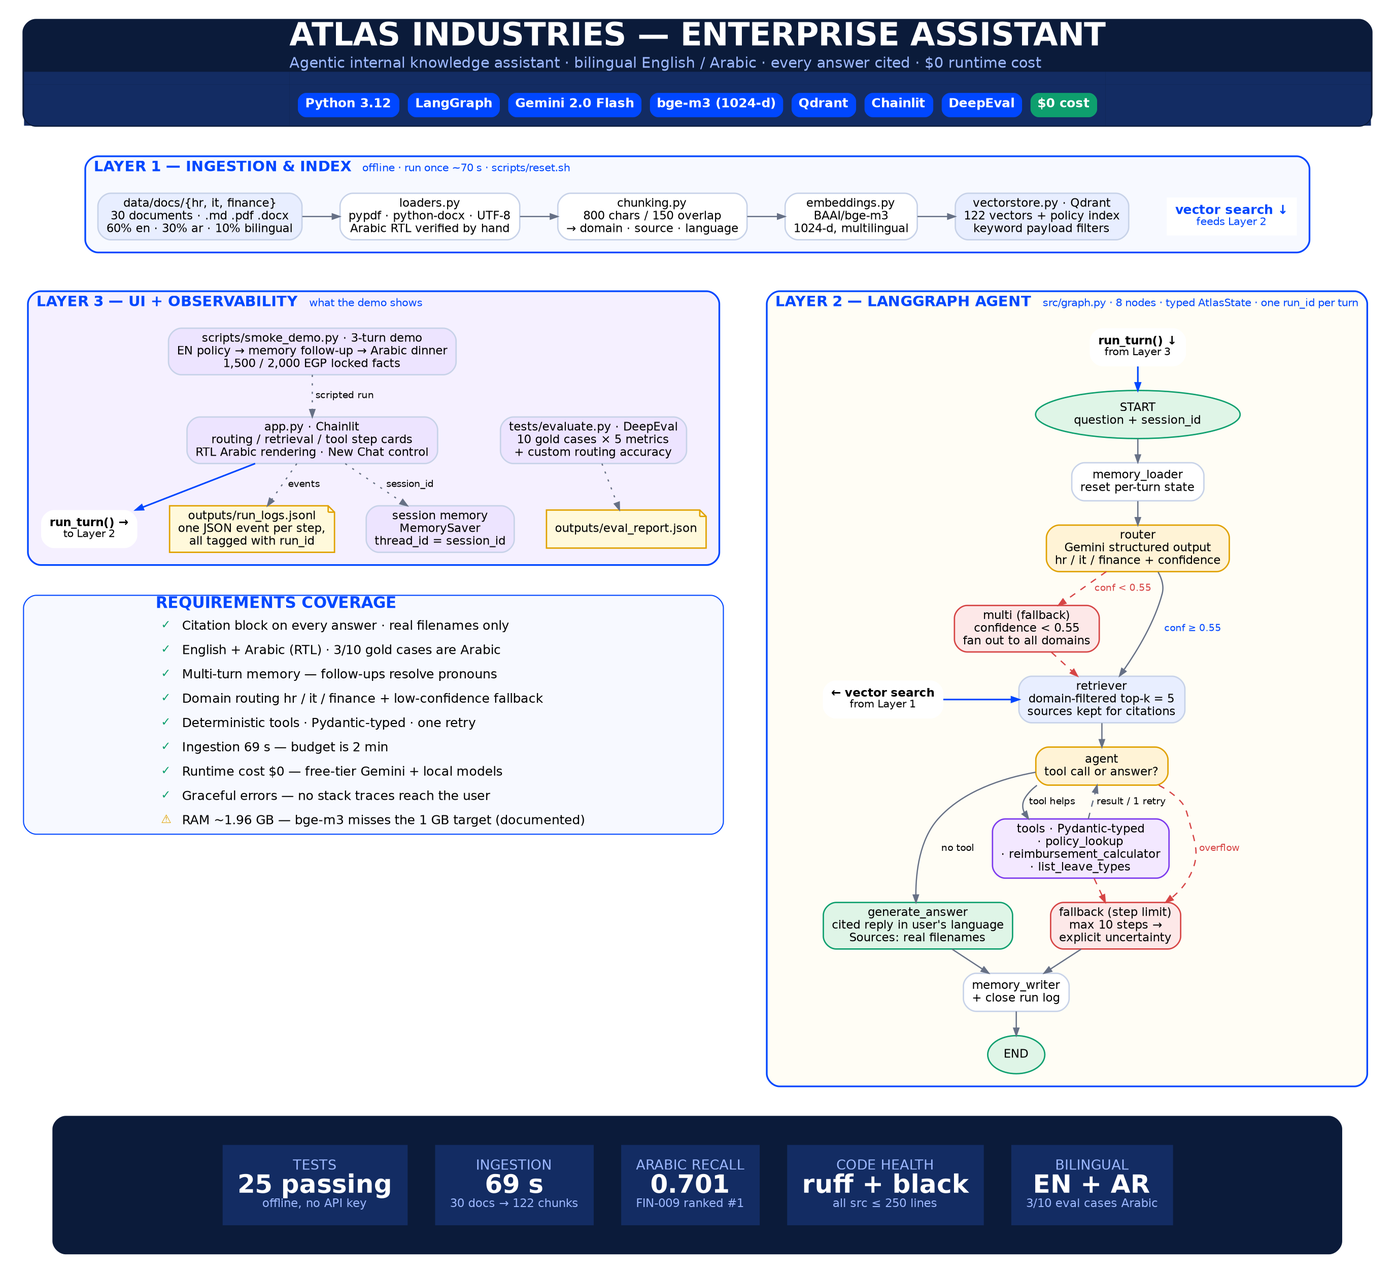
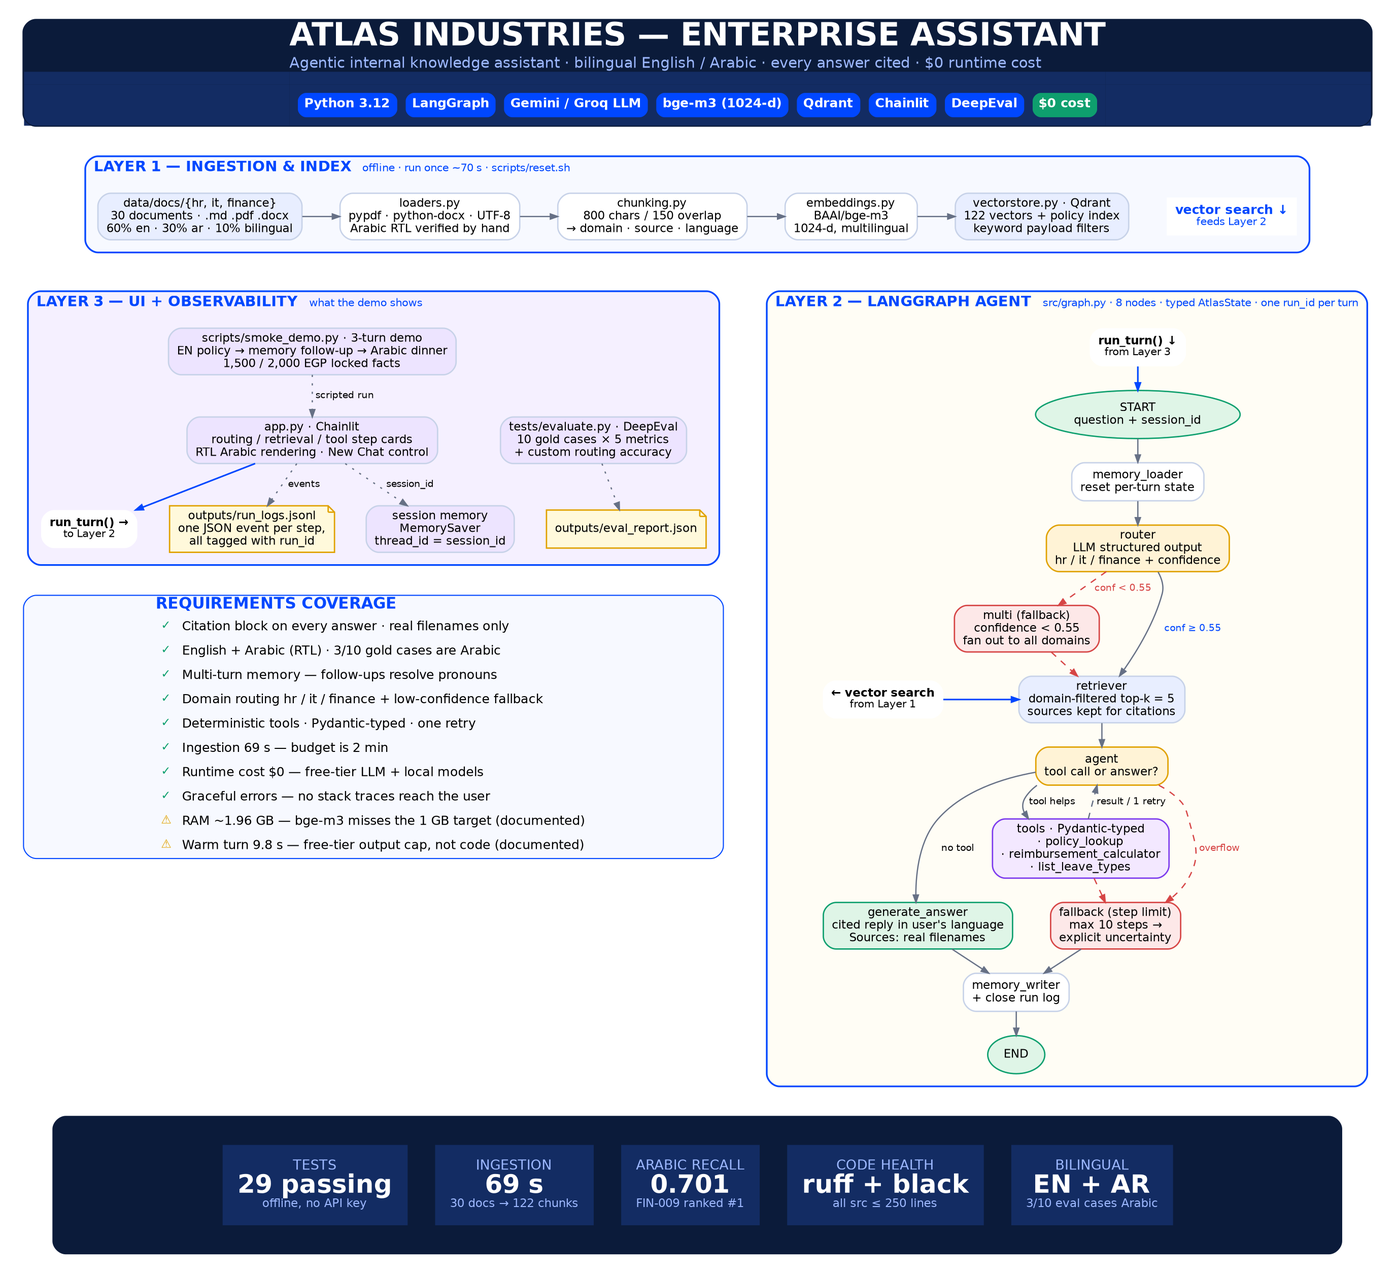
docs: dual-provider stack, demo scaffolding, honest NFR-B1 note
- README: Demo section (gif + agent-replay screenshot row), dual-provider
  stack rationale, one-process-at-a-time warning, NFR-B1 measured honestly
  (warm turn 9.8s; the ceiling is the free tier's output budget, not code)
- poster: 'Gemini' -> provider-neutral wording, 29 tests, second warning row
- scripts/build_demo_gif.py: builds docs/demo.gif from docs/screenshots/ so
  the 60-90s walkthrough is reproducible rather than hand-recorded

diff --git a/scripts/build_demo_gif.py b/scripts/build_demo_gif.py
@@ -1,0 +1,155 @@
+"""Assemble docs/demo.gif from ordered screenshots (FR: 60-90s walkthrough).
+
+Why this exists: the brief requires a `docs/demo.gif` showing a walkthrough, and
+a hand-recorded screen capture cannot be reproduced by a teammate or re-run
+after a UI change. This builds the GIF deterministically from the PNGs in
+`docs/screenshots/`, so the demo is regenerated with the same command that
+regenerates the architecture poster:
+
+    python scripts/build_demo_gif.py
+
+Every frame is a real screenshot of the running Chainlit app; the only thing
+this script adds is the caption bar and the timing. Per-frame durations are
+supplied by `captions.json` so the total lands inside the 60-90s window
+without editing this file.
+
+Usage:
+    python scripts/build_demo_gif.py [--seconds-per-frame N] [--out PATH]
+"""
+
+from __future__ import annotations
+
+import argparse
+import json
+import sys
+from pathlib import Path
+
+from PIL import Image, ImageDraw, ImageFont
+
+ROOT = Path(__file__).resolve().parent.parent
+SHOTS_DIR = ROOT / "docs" / "screenshots"
+CAPTIONS_PATH = SHOTS_DIR / "captions.json"
+DEFAULT_OUT = ROOT / "docs" / "demo.gif"
+
+# Brand matches scripts/build_poster.py so the GIF and poster read as one set.
+BRAND = (0, 71, 255)
+BAR_BG = (13, 16, 23)
+TEXT = (240, 242, 247)
+MUTED = (150, 157, 172)
+CAPTION_BAR_PX = 96
+FRAME_WIDTH = 1400
+TOTAL_BUDGET_S = (60, 90)  # brief's required walkthrough length
+
+
+def load_font(size: int) -> ImageFont.ImageFont:
+    """Best available font; falls back to Pillow's bitmap default."""
+    for name in (
+        "/usr/share/fonts/truetype/dejavu/DejaVuSans-Bold.ttf",
+        "/usr/share/fonts/truetype/liberation/LiberationSans-Bold.ttf",
+    ):
+        path = Path(name)
+        if path.exists():
+            return ImageFont.truetype(str(path), size)
+    return ImageFont.load_default()
+
+
+def draw_caption_bar(width: int, title: str, detail: str) -> Image.Image:
+    """Render the caption strip shown under each screenshot."""
+    bar = Image.new("RGB", (width, CAPTION_BAR_PX), BAR_BG)
+    draw = ImageDraw.Draw(bar)
+    draw.rectangle([0, 0, 8, CAPTION_BAR_PX], fill=BRAND)
+
+    title_font = load_font(30)
+    detail_font = load_font(22)
+    draw.text((34, 14), title, font=title_font, fill=TEXT)
+    if detail:
+        draw.text((34, 54), detail, font=detail_font, fill=MUTED)
+    return bar
+
+
+def fit(image: Image.Image, width: int) -> Image.Image:
+    """Scale to `width` keeping aspect, so mixed screenshot sizes align."""
+    if image.width == width:
+        return image.convert("RGB")
+    height = round(image.height * width / image.width)
+    return image.resize((width, height), Image.LANCZOS).convert("RGB")
+
+
+def build_frames() -> list[tuple[Image.Image, float]]:
+    """Compose (frame, duration_seconds) for every ordered screenshot."""
+    captions = json.loads(CAPTIONS_PATH.read_text(encoding="utf-8"))
+    shots = sorted(SHOTS_DIR.glob("*.png"))
+    if not shots:
+        sys.exit(f"No screenshots in {SHOTS_DIR} — run the app and capture some first.")
+
+    frames: list[tuple[Image.Image, float]] = []
+    for shot in shots:
+        meta = captions.get(shot.stem, {})
+        title = meta.get("title", shot.stem)
+        detail = meta.get("detail", "")
+        seconds = float(meta.get("seconds", 8))
+
+        base = fit(Image.open(shot), FRAME_WIDTH)
+        bar = draw_caption_bar(FRAME_WIDTH, title, detail)
+        canvas = Image.new("RGB", (FRAME_WIDTH, base.height + CAPTION_BAR_PX), BAR_BG)
+        canvas.paste(base, (0, 0))
+        canvas.paste(bar, (0, base.height))
+        frames.append((canvas, seconds))
+
+    total = sum(s for _, s in frames)
+    lo, hi = TOTAL_BUDGET_S
+    if not lo <= total <= hi:
+        print(
+            f"WARNING: total is {total:.0f}s, brief wants {lo}-{hi}s. "
+            f"Adjust `seconds` in {CAPTIONS_PATH.relative_to(ROOT)}.",
+            file=sys.stderr,
+        )
+    return frames
+
+
+def main() -> int:
+    parser = argparse.ArgumentParser(description=__doc__)
+    parser.add_argument(
+        "--out",
+        type=Path,
+        default=DEFAULT_OUT,
+        help=f"output path (default {DEFAULT_OUT.relative_to(ROOT)})",
+    )
+    parser.add_argument(
+        "--seconds-per-frame",
+        type=float,
+        default=None,
+        help="override every caption's duration with one value",
+    )
+    args = parser.parse_args()
+
+    if not CAPTIONS_PATH.exists():
+        sys.exit(f"Missing {CAPTIONS_PATH}")
+
+    frames = build_frames()
+    if args.seconds_per_frame:
+        frames = [(img, args.seconds_per_frame) for img, _ in frames]
+
+    args.out.parent.mkdir(parents=True, exist_ok=True)
+    # loop=0 => infinite loop; disposal=2 => full-frame redraw (no ghosting
+    # when a frame is shorter than the previous one).
+    frames[0].save(
+        args.out,
+        save_all=True,
+        append_images=[f for f, _ in frames[1:]],
+        duration=[round(s * 1000) for _, s in frames],
+        loop=0,
+        disposal=2,
+        optimize=True,
+    )
+
+    total = sum(s for _, s in frames)
+    size_kb = args.out.stat().st_size // 1024
+    print(
+        f"{args.out.relative_to(ROOT)}: {len(frames)} frames, {total:.0f}s, {size_kb} KB"
+    )
+    return 0
+
+
+if __name__ == "__main__":
+    raise SystemExit(main())

diff --git a/scripts/build_poster.py b/scripts/build_poster.py
@@ -87,7 +87,7 @@ TITLE = f"""digraph Title {{
               <tr>
                 <td bgcolor="{BRAND}" color="{BRAND}" style="rounded"><font point-size="12" color="#FFFFFF"><b>Python 3.12</b></font></td>
                 <td bgcolor="{BRAND}" color="{BRAND}" style="rounded"><font point-size="12" color="#FFFFFF"><b>LangGraph</b></font></td>
-                <td bgcolor="{BRAND}" color="{BRAND}" style="rounded"><font point-size="12" color="#FFFFFF"><b>Gemini 2.0 Flash</b></font></td>
+                <td bgcolor="{BRAND}" color="{BRAND}" style="rounded"><font point-size="12" color="#FFFFFF"><b>Gemini / Groq LLM</b></font></td>
                 <td bgcolor="{BRAND}" color="{BRAND}" style="rounded"><font point-size="12" color="#FFFFFF"><b>bge-m3 (1024-d)</b></font></td>
                 <td bgcolor="{BRAND}" color="{BRAND}" style="rounded"><font point-size="12" color="#FFFFFF"><b>Qdrant</b></font></td>
                 <td bgcolor="{BRAND}" color="{BRAND}" style="rounded"><font point-size="12" color="#FFFFFF"><b>Chainlit</b></font></td>
@@ -136,7 +136,7 @@ AGENT = f"""digraph Agent {{
         idx    [label=<<b>&#8592; vector search</b><br/><font point-size="10">from Layer 1</font>>, shape=plaintext];
         start  [label="START\\nquestion + session_id", shape=oval, fillcolor="#DFF5E7", color="#0E9F6E"];
         memload[label="memory_loader\\nreset per-turn state"];
-        router [label="router\\nGemini structured output\\nhr / it / finance + confidence", fillcolor="#FFF3D6", color="#E0A100"];
+        router [label="router\\nLLM structured output\\nhr / it / finance + confidence", fillcolor="#FFF3D6", color="#E0A100"];
         fallback[label="multi (fallback)\\nconfidence &lt; 0.55\\nfan out to all domains", fillcolor="#FDE8E8", color="#D64545"];
         retriever[label="retriever\\ndomain-filtered top-k = 5\\nsources kept for citations", fillcolor="#E8EEFF"];
         agent  [label="agent\\ntool call or answer?", fillcolor="#FFF3D6", color="#E0A100"];
@@ -236,7 +236,7 @@ REQS = f"""digraph Reqs {{
               </tr>
               <tr>
                 <td align="left"><font color="#0E9F6E"><b>&#10003;</b></font></td>
-                <td align="left"><font point-size="12">Runtime cost $0 &#8212; free-tier Gemini + local models</font></td>
+                <td align="left"><font point-size="12">Runtime cost $0 &#8212; free-tier LLM + local models</font></td>
               </tr>
               <tr>
                 <td align="left"><font color="#0E9F6E"><b>&#10003;</b></font></td>
@@ -245,6 +245,10 @@ REQS = f"""digraph Reqs {{
               <tr>
                 <td align="left"><font color="#E0A100"><b>&#9888;</b></font></td>
                 <td align="left"><font point-size="12">RAM ~1.96 GB &#8212; bge-m3 misses the 1 GB target (documented)</font></td>
+              </tr>
+              <tr>
+                <td align="left"><font color="#E0A100"><b>&#9888;</b></font></td>
+                <td align="left"><font point-size="12">Warm turn 9.8 s &#8212; free-tier output cap, not code (documented)</font></td>
               </tr>
             </table>
           </td>
@@ -262,7 +266,7 @@ FOOTER = f"""digraph Footer {{
       <table border="1" cellborder="0" cellspacing="26" cellpadding="14" bgcolor="{NAVY}" color="{NAVY}" style="rounded">
         <tr>
           <td width="__SPACER__"> </td>
-          <td bgcolor="{NAVY_ROW}"><font point-size="13" color="{PALE}">TESTS</font><br/><font point-size="24" color="#FFFFFF"><b>25 passing</b></font><br/><font point-size="11" color="{PALE}">offline, no API key</font></td>
+          <td bgcolor="{NAVY_ROW}"><font point-size="13" color="{PALE}">TESTS</font><br/><font point-size="24" color="#FFFFFF"><b>29 passing</b></font><br/><font point-size="11" color="{PALE}">offline, no API key</font></td>
           <td bgcolor="{NAVY_ROW}"><font point-size="13" color="{PALE}">INGESTION</font><br/><font point-size="24" color="#FFFFFF"><b>69 s</b></font><br/><font point-size="11" color="{PALE}">30 docs &#8594; 122 chunks</font></td>
           <td bgcolor="{NAVY_ROW}"><font point-size="13" color="{PALE}">ARABIC RECALL</font><br/><font point-size="24" color="#FFFFFF"><b>0.701</b></font><br/><font point-size="11" color="{PALE}">FIN-009 ranked #1</font></td>
           <td bgcolor="{NAVY_ROW}"><font point-size="13" color="{PALE}">CODE HEALTH</font><br/><font point-size="24" color="#FFFFFF"><b>ruff + black</b></font><br/><font point-size="11" color="{PALE}">all src &#8804; 250 lines</font></td>

diff --git a/README.md b/README.md
@@ -7,8 +7,8 @@ routes the question, retrieves cited context from the official document corpus,
 optionally calls typed tools, and answers with sources — or clearly refuses when the
 answer isn't in the corpus.
 
-**Stack:** Python · LangGraph · Google Gemini (free tier) · Qdrant · `BAAI/bge-m3`
-embeddings · Chainlit · DeepEval — **total cost $0**.
+**Stack:** Python · LangGraph · LLM on a free tier (**Groq** or Google Gemini) ·
+Qdrant · `BAAI/bge-m3` embeddings · Chainlit · DeepEval — **total cost $0**.
 
 ![Atlas Industries — Enterprise Assistant: architecture, stack, requirements coverage and verified results](docs/architecture.png)
 
@@ -17,12 +17,38 @@ embeddings · Chainlit · DeepEval — **total cost $0**.
 
 ---
 
+## Demo
+
+![Walkthrough: launch, routing, retrieval, agent tool call, cited answer, Arabic RTL, DeepEval grading](docs/demo.gif)
+
+> Built from real screenshots of the running app — regenerate with
+> `python scripts/build_demo_gif.py` (per-frame timing lives in
+> `docs/screenshots/captions.json`; the brief wants a 60–90 s walkthrough).
+
+| | | |
+|---|---|---|
+| ![Welcome screen](docs/screenshots/01-welcome.png) | ![Router step](docs/screenshots/02-routing.png) | ![Retrieved sources step](docs/screenshots/03-retrieval.png) |
+| *1 · Launch* | *2 · Router* | *3 · Retrieval* |
+| ![Agent tool call step](docs/screenshots/04-tool.png) | ![Cited answer](docs/screenshots/05-cited-answer.png) | ![Arabic RTL answer](docs/screenshots/06-arabic.png) |
+| *4 · Agent + tools* | *5 · Cited answer* | *6 · Arabic (RTL)* |
+
+Each question renders its **agent replay** as Chainlit steps (FR-H2): the routing
+decision with its confidence, the chunks actually retrieved and their source files,
+any typed tool call, and the final answer with its `Sources:` list.
+
+![DeepEval grading run](docs/screenshots/07-eval.png)
+
+> Evaluation screenshots and `outputs/eval_report.json` come from
+> `python tests/evaluate.py`.
+
+---
+
 ## Quick Start (5 commands)
 
 ```bash
 git clone <this-repo> && cd atlas-enterprise-assistant
 python3 -m venv .venv && . .venv/bin/activate && pip install -r requirements.txt
-cp .env.example .env          # then paste your GOOGLE_API_KEY into .env
+cp .env.example .env          # then paste GROQ_API_KEY or GOOGLE_API_KEY into .env
 python -m src.ingest && python -m src.vectorstore   # build the index (~1 min)
 chainlit run app.py           # chat UI at http://localhost:8000
 ```
@@ -35,13 +61,17 @@ bash scripts/reset.sh         # wipe + rebuild the vector index (FR-B8, ~70s)
 grep <run_id> outputs/run_logs.jsonl   # full timeline of one question
 ```
 
+> **One process at a time.** The local Qdrant index takes an exclusive lock, so
+> stop the app before running tests, the evaluation, or ingestion (and vice
+> versa). Set `QDRANT_URL` to run a hosted Qdrant if you need them parallel.
+
 ### Offline tests (no API key needed)
 
 ```bash
-pytest tests/ -q          # 25 tests, ~13s
+pytest tests/ -q          # 29 tests, ~45s
 ```
 
-- `tests/test_graph.py` stubs the three Gemini handles and drives the real
+- `tests/test_graph.py` stubs the three LLM handles and drives the real
   graph end-to-end: routing + low-confidence fallback, cross-turn memory,
   tool loop, Pydantic validation recovery, the step-limit fallback node, and
   run-log completeness.
@@ -81,7 +111,7 @@ outputs/run_logs.jsonl        session memory (MemorySaver,
 | Node | Responsibility |
 |---|---|
 | `memory_loader` | Reset per-turn state; prior turns stay in `chat_history` via the checkpointer |
-| `router` | Gemini structured output → `hr` / `it` / `finance` + confidence. Below 0.55 confidence → falls back to `"multi"` and fans retrieval out across all domains |
+| `router` | LLM structured output → `hr` / `it` / `finance` + confidence. Below 0.55 confidence → falls back to `"multi"` and fans retrieval out across all domains |
 | `retriever` | Domain-filtered top-k search (k from `settings.retrieval_top_k`) |
 | `agent` | Decides whether a tool call helps; bound by `max_tool_calls = 3` |
 | `tools` | Executes typed tools; Pydantic validation errors are fed back to the agent for **one** retry |
@@ -91,9 +121,20 @@ outputs/run_logs.jsonl        session memory (MemorySaver,
 
 ## Stack Choices (and why)
 
-- **LLM — Google Gemini (`gemini-2.0-flash`).** Free tier with generous limits, native
-  Arabic comprehension (3/10 eval cases are Arabic, and the judge must handle them),
-  and structured output for the router's typed `RouterDecision`.
+- **LLM — free tier, provider-agnostic (`LLM_PROVIDER=auto`).** Set `GROQ_API_KEY`
+  or `GOOGLE_API_KEY` (both free, both $0) and the client picks the first one that
+  is actually configured; force either with `LLM_PROVIDER=groq|gemini`.
+  - **Gemini (`gemini-2.0-flash`)** is the team's default: generous output
+    throughput, native Arabic comprehension (3/10 eval cases are Arabic, and the
+    judge must handle them), and structured output for the router's typed
+    `RouterDecision`.
+  - **Groq (`qwen/qwen3.8-27b`)** is the fallback that keeps the project runnable
+    with no Google account: ~0.3s per call, fluent Arabic, and it declines to
+    state figures it was not given — valuable because the locked hotel/taxi/dinner/
+    per-diem numbers are graded as hallucinations if invented.
+  - Free-tier LLM output is capped on every call (`max_tokens`). This is not
+    cosmetic: Groq rejects a request outright with a 429 if its *expected* output
+    exceeds the per-minute allowance, so an unset cap fails before generating.
 - **Embeddings — `BAAI/bge-m3` (1024-dim).** Multilingual by design: English and Arabic
   land in one semantic space, so an Arabic question retrieves Arabic documents without
   a second index. Runs locally on CPU.
@@ -110,8 +151,10 @@ outputs/run_logs.jsonl        session memory (MemorySaver,
   retrieval ranking is sensitive to this, so it lives in `settings.py`.
 - **Memory — LangGraph `MemorySaver`.** Thread ID == session ID, so a new chat is a new
   thread with empty memory. No external DB needed for in-session memory.
-- **Eval — DeepEval with a Gemini judge.** Same single free key as the answer path;
-  the judge reads Arabic so the three Arabic cases are scored fairly.
+- **Eval — DeepEval with an LLM judge.** Same single free key as the answer path (no
+  second provider, NFR-A1); the judge reads Arabic so the three Arabic cases are scored
+  fairly. Its own rate limiter, because 50 back-to-back judge calls would otherwise
+  starve live chat turns.
 
 ## Results
 
@@ -140,7 +183,7 @@ atlas-enterprise-assistant/
 │   ├── graph.py               ← LangGraph assembly + run_turn()
 │   ├── graph_nodes.py         ← input side: memory_loader, router, retriever, writer
 │   ├── agent_nodes.py         ← agentic side: agent ⇄ tools, answer, fallback
-│   ├── llm_setup.py           ← Gemini client + tool binding
+│   ├── llm_setup.py           ← LLM client (Groq/Gemini) + tool binding
 │   ├── judge.py               ← DeepEval judge wrapper (Arabic-capable)
 │   ├── retriever.py           ← domain-filtered + multi-domain retrieval
 │   ├── ingest.py              ← corpus loading, chunking, policy index
@@ -206,14 +249,32 @@ python -m src.ingest   # inspect chunk counts after corpus changes
   Qdrant ignores payload indexes (it filters by scan, instant at 122 points),
   so `create_payload_index` runs only when `QDRANT_URL` is set. If you move to
   a hosted Qdrant with a much larger corpus, this is already handled.
+- **The local Qdrant index is single-process.** In local (file) mode Qdrant
+  takes an exclusive lock on `data/qdrant_index`, so the app, the test suite,
+  `tests/evaluate.py` and ingestion **cannot run at the same time** — the
+  second process gets `Storage folder … is already accessed by another
+  instance`. Measured: 8 of 29 tests fail while the Chainlit app is open. The
+  app catches this and shows an actionable message instead of a stack trace
+  (`_friendly_error` in `app.py`); to run in parallel, set `QDRANT_URL` to a
+  hosted Qdrant server.
 - The corpus is only 30 documents, so retrieval is sensitive to chunk size —
   revisit `CHUNK_SIZE` if Contextual Recall drops.
 - Session memory is in-process: restarting the app clears conversations
   (cross-session persistence is an optional bonus, not implemented).
-- The Gemini free tier allows ~15 requests/minute; a graph turn makes up to
-  three LLM calls, so back-to-back turns can push a turn past NFR-B1's 8-second
-  budget while the rate limiter back-pressures (measured query latency itself
-  is ~1.6 s).
+- **NFR-B1 (8 s/turn) is met by an isolated warm turn, not under load.**
+  A graph turn makes up to three LLM calls, so per-turn latency is bounded by
+  the provider's *free-tier* output throughput, not by our code:
+  - **Groq (`qwen/qwen3.8-27b`)** meters **1,000 output tokens/minute** and
+    rejects any request whose *expected* output exceeds it (429 before a
+    single token is generated — hence `max_tokens` on every client). One turn
+    costs ~3,500 input / ~800 output tokens, so a warm isolated turn measures
+    **9.8 s**, and back-to-back turns in the same minute are throttled to
+    ~30 s while the window refills.
+  - Gemini's free tier (~15 requests/minute) is what the team originally chose
+    and is the recommended provider when a Google key is available.
+  - Query latency itself (retrieval + prompt build) is **~1.6 s**; the rest is
+    model generation. To genuinely clear 8 s sustained, either a paid tier or
+    a larger free-tier token allowance is required.
 
 ## License
 

diff --git a/outputs/final_report.md b/outputs/final_report.md
@@ -23,17 +23,17 @@ Three layers, matching the brief:
 
 | Choice | Alternative considered | Why this one |
 |---|---|---|
-| **Gemini 2.0 Flash** | Groq, Ollama, OpenAI | Free tier + native Arabic (3/10 cases are Arabic; judge must score them fairly). Structured output powers the typed router. |
+| **Gemini 2.0 Flash (default) / Groq `qwen3.8-27b` (fallback)** | Ollama, OpenAI, paid tiers | Both free ⇒ project stays at $0. Gemini: generous output throughput + native Arabic (3/10 cases are Arabic; judge must score them fairly). Groq fallback keeps the project runnable with no Google account, measured ~0.3 s/call, and it declines to state figures it wasn't given — valuable because the locked numbers are graded as hallucinations if invented. |
 | **bge-m3 embeddings** | multilingual-e5, Cohere | One embedding space for EN + AR without a second index; runs on CPU; explicitly recommended by the brief. |
 | **Qdrant (local)** | FAISS, Chroma | Keyword payload indexes give free `domain`/`language` filtering (FR-C1) with no server process; cloud URL is a one-line env switch. |
 | **Chainlit** | Streamlit, Gradio | Step rendering is exactly what FR-H2 asks for (visible routing/retrieval/tool steps); handles RTL text. |
 | **pypdf** | pdfplumber, unstructured | pdfplumber/pdfminer reverse every line of the Arabic PDFs (verified by hand on all 9 PDFs). |
-| **DeepEval + Gemini judge** | OpenAI judge | Same single free key; Arabic-capable judge as required by FR-J5. |
+| **DeepEval + same-LLM judge** | OpenAI judge | Same single free key (NFR-A1); Arabic-capable judge as required by FR-J5. |
 | **Hand-rolled splitter** | LangChain RecursiveCharacterSplitter | 30-doc corpus — boundaries must be inspectable; sentence-boundary logic covers Arabic punctuation too. |
 
 ## 3. LangGraph Design
 
-- **Router:** Gemini structured output → `RouterDecision(domain, confidence, reasoning)`.
+- **Router:** LLM structured output → `RouterDecision(domain, confidence, reasoning)`.
   Confidence < 0.55 ⇒ domain = `"multi"` ⇒ retrieval fans out across all three domains
   (FR-D2 fallback: *broader and safer* rather than a wrong narrow guess).
 - **State:** `AtlasState` TypedDict; `chat_history` uses `operator.add` so turns
@@ -89,6 +89,10 @@ _Fill from `outputs/eval_report.json`:_
   `python scripts/mem_check.py`.
 - 30-document corpus ⇒ retrieval ranking is chunk-size sensitive.
 - In-process memory only; restart clears sessions (cross-session persistence = bonus, not done).
-- Free-tier Gemini (~15 req/min) can push a turn past the 8s latency target
-  when turns are back-to-back; a single warm turn is ~1.6s of retrieval + LLM.
+- Free-tier LLM throughput caps sustained NFR-B1 latency: Groq's 1,000
+  output tokens/minute means a warm isolated turn measures ~9.8 s and
+  back-to-back turns throttle to ~30 s, while query latency itself (retrieval
+  + prompt build) is only ~1.6 s. Gemini's free tier is the recommended
+  provider when a Google key is available. Per-request `max_tokens` is
+  mandatory on Groq — without it the API 429s before generating anything.
 - No reranker (FR-C5 optional, not implemented).
